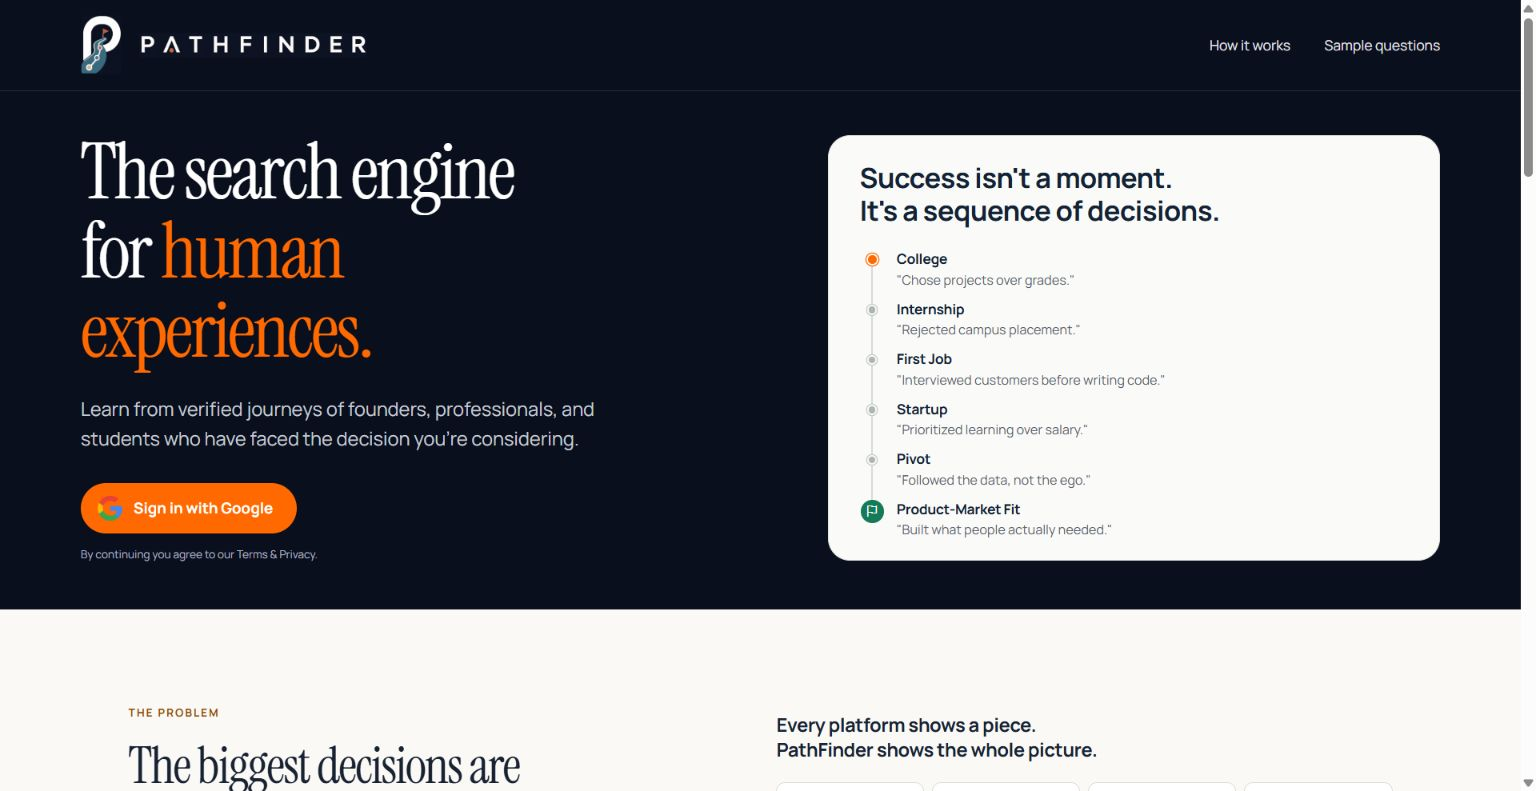
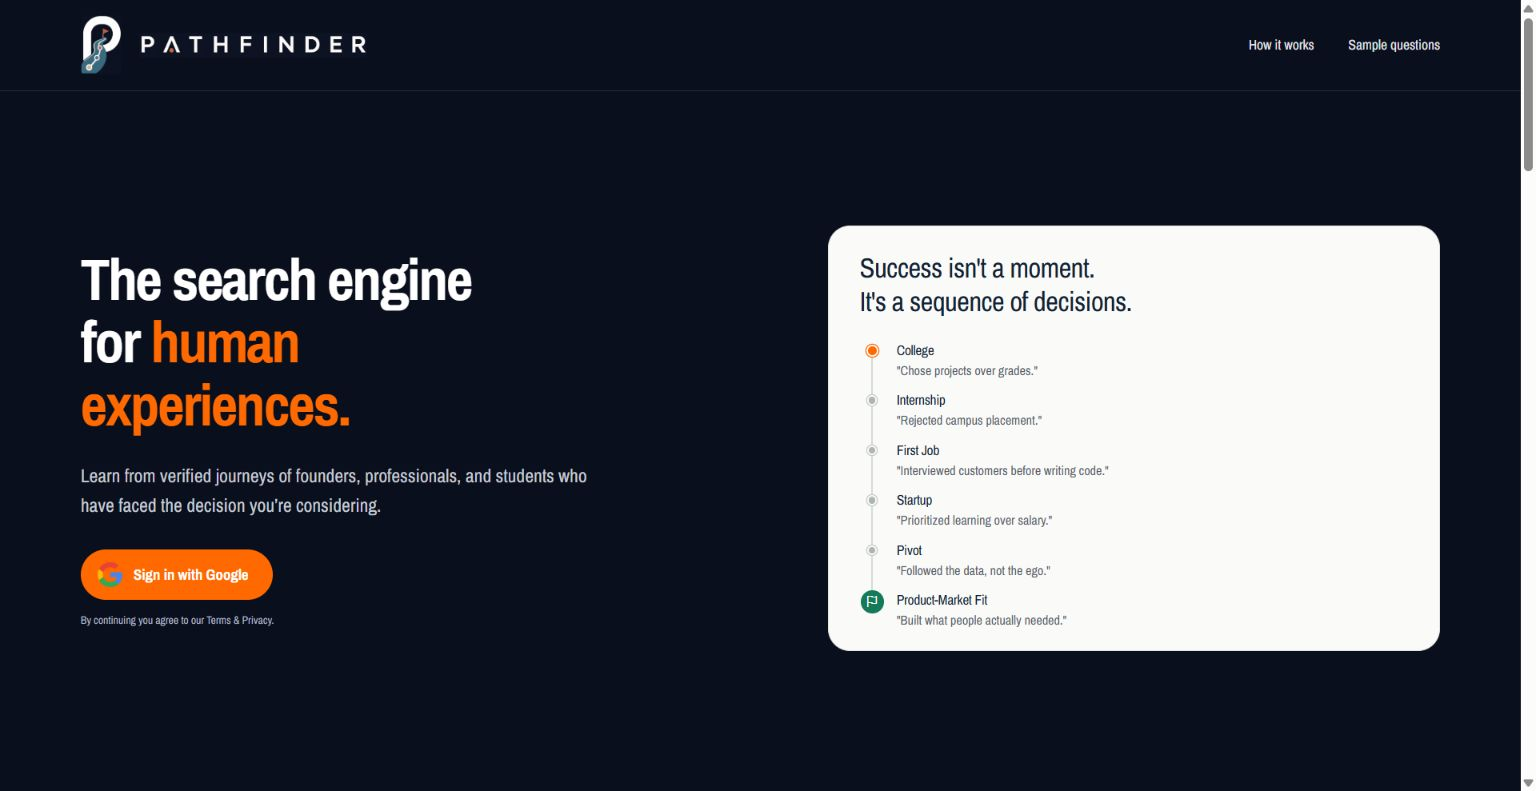
feat: refine desktop homepage typography and full-screen sections

diff --git a/frontend/components/landing/desktopLanding.css b/frontend/components/landing/desktopLanding.css
@@ -1,4 +1,8 @@
 .pf-landing .continuity {
+  min-height: 100vh;
+  min-height: 100dvh;
+  display: grid;
+  grid-template-rows: auto 1fr;
   background: #0a0f1d;
   color: #fff;
 }
@@ -53,6 +57,7 @@
   color: #ff9652;
 }
 .pf-landing .continuity .hero {
+  margin: 0 auto;
   display: grid;
   grid-template-columns: minmax(0, 1.07fr) minmax(0, 1fr);
   gap: clamp(35px, 6vw, 105px);
@@ -66,11 +71,11 @@
   margin: 0;
 }
 .pf-landing .continuity h1 {
-  font-size: clamp(56px, 5.05vw, 80px);
-  line-height: 1.02;
+  font-size: clamp(42px, 3.8vw, 64px);
+  line-height: 1.08;
   font-weight: 400;
   letter-spacing: -0.03em;
-  font-family: InstrumentSerif_400Regular, Georgia, serif;
+  font-family: ArchivoNarrow_700Bold, Arial, sans-serif;
 }
 .pf-landing .continuity h1 .line {
   display: block;
@@ -122,6 +127,7 @@
   min-width: 0;
 }
 .pf-landing .continuity .journey h2 {
+  font-family: ArchivoNarrow_400Regular, Arial, sans-serif;
   color: #142235;
   font-size: clamp(23px, 1.81vw, 30px);
   font-weight: 400;
@@ -182,6 +188,7 @@
   box-shadow: none;
 }
 .pf-landing .continuity .stage {
+  font-family: ArchivoNarrow_400Regular, Arial, sans-serif;
   font-size: 14px;
   line-height: 19px;
   font-weight: 400;
@@ -218,7 +225,7 @@
   background: var(--st-paper);
   color: var(--st-text);
   font:
-    400 16px/1.65 Manrope_400Regular,
+    400 16px/1.65 ArchivoNarrow_400Regular,
     Arial,
     sans-serif;
   letter-spacing: normal;
@@ -261,7 +268,7 @@
 .pf-story h2,
 .pf-story h3,
 .pf-story h4 {
-  font-family: Manrope_400Regular, Arial, sans-serif;
+  font-family: ArchivoNarrow_400Regular, Arial, sans-serif;
   color: inherit;
   text-transform: none;
 }
@@ -293,7 +300,7 @@
 }
 .pf-story .st-label {
   font:
-    400 11px/1.4 Manrope_700Bold,
+    400 11px/1.4 ArchivoNarrow_700Bold,
     Arial,
     sans-serif;
   letter-spacing: 0.14em;
@@ -303,9 +310,9 @@
 }
 .pf-story h2.st-heading {
   font:
-    400 clamp(32px, 3.35vw, 52px)/1.13 InstrumentSerif_400Regular,
-    Georgia,
-    serif;
+    400 clamp(30px, 3vw, 46px)/1.15 ArchivoNarrow_700Bold,
+    Arial,
+    sans-serif;
   letter-spacing: -0.03em;
   max-width: 24ch;
   text-wrap: balance;
@@ -443,9 +450,9 @@
 .pf-story .st-question-list li:before {
   content: '“';
   font:
-    27px/0.9 InstrumentSerif_400Regular,
-    Georgia,
-    serif;
+    27px/0.9 ArchivoNarrow_400Regular,
+    Arial,
+    sans-serif;
   color: #9a4409;
   transform: translateY(4px);
 }
@@ -587,7 +594,7 @@
 }
 .pf-story .st-langs li {
   font:
-    400 14px/1.4 Manrope_400Regular,
+    400 14px/1.4 ArchivoNarrow_400Regular,
     'Nirmala UI',
     Arial,
     sans-serif;
@@ -629,6 +636,19 @@
   line-height: 1.55;
   margin-top: 3px;
 }
+.pf-story .st-closing {
+  min-height: 100vh;
+  min-height: 100dvh;
+  display: flex;
+  flex-direction: column;
+  background: var(--st-navy);
+  color: #fff;
+}
+.pf-story .st-closing .st-vision {
+  flex: 1;
+  display: flex;
+  align-items: center;
+}
 .pf-story .st-vision,
 .pf-story .st-footer {
   background: var(--st-navy);
@@ -638,16 +658,16 @@
   color: #ff9a56;
 }
 .pf-story .st-vision .st-inner {
-  padding-bottom: clamp(50px, 5.5vw, 80px);
+  padding: clamp(32px, 4vh, 56px) 0;
 }
 .pf-story .st-vision blockquote {
   font:
-    400 clamp(33px, 4.7vw, 73px)/1.04 InstrumentSerif_400Regular,
-    Georgia,
-    serif;
+    400 clamp(32px, 3.4vw, 52px)/1.15 ArchivoNarrow_700Bold,
+    Arial,
+    sans-serif;
   letter-spacing: -0.03em;
   color: #f9f6ef;
-  max-width: 27ch;
+  max-width: 36ch;
 }
 .pf-story .st-vision .st-copy {
   color: #b1b5bd;
@@ -710,7 +730,7 @@
 }
 .pf-story .st-contact h2 {
   font-size: 20px;
-  font-family: Manrope_700Bold, Arial, sans-serif;
+  font-family: ArchivoNarrow_700Bold, Arial, sans-serif;
   color: #f6f3ed;
 }
 .pf-story .st-contact-grid {
@@ -721,7 +741,7 @@
 }
 .pf-story .st-contact-person h3 {
   font-size: 14px;
-  font-family: Manrope_700Bold, Arial, sans-serif;
+  font-family: ArchivoNarrow_700Bold, Arial, sans-serif;
   color: #f6f3ed;
   margin-bottom: 12px;
 }
@@ -746,7 +766,7 @@
   flex: 1;
   min-height: 0;
   overflow-y: auto;
-  font-family: Manrope_400Regular, Arial, sans-serif;
+  font-family: ArchivoNarrow_400Regular, Arial, sans-serif;
   color: #152238;
   background: #faf9f6;
 }
@@ -756,8 +776,8 @@
   box-sizing: border-box;
 }
 .pf-landing
-  :is(button, .journey h2, h3, h4, b, strong, .stage, .st-platform b) {
-  font-family: Manrope_700Bold, Arial, sans-serif;
+  :is(button, h3, h4, b, strong, .st-platform b) {
+  font-family: ArchivoNarrow_700Bold, Arial, sans-serif;
   font-weight: 400;
 }
 .pf-landing .login {

diff --git a/frontend/components/landing/DesktopLanding.web.tsx b/frontend/components/landing/DesktopLanding.web.tsx
@@ -1,4 +1,7 @@
 import { Asset } from 'expo-asset';
+import { useFonts } from 'expo-font';
+import { ArchivoNarrow_400Regular } from '@expo-google-fonts/archivo-narrow/400Regular';
+import { ArchivoNarrow_700Bold } from '@expo-google-fonts/archivo-narrow/700Bold';
 import { Feather, MaterialCommunityIcons } from '@expo/vector-icons';
 import {
   JOURNEY_TAGS,
@@ -233,6 +236,7 @@ function LandingStory() {
           </div>
         </div>
       </section>
+      <div className="st-closing">
       <section className="st-vision">
         <div className="st-inner">
           <p className="st-label">Our vision</p>
@@ -290,11 +294,15 @@ function LandingStory() {
           </p>
         </div>
       </footer>
+      </div>
     </div>
   );
 }
 
 export default function DesktopLanding({ onPressGoogle }: DesktopLandingProps) {
+  // Load these weights only when the desktop homepage is mounted.
+  useFonts({ ArchivoNarrow_400Regular, ArchivoNarrow_700Bold });
+
   return (
     <main className="pf-landing">
       <div className="continuity">
